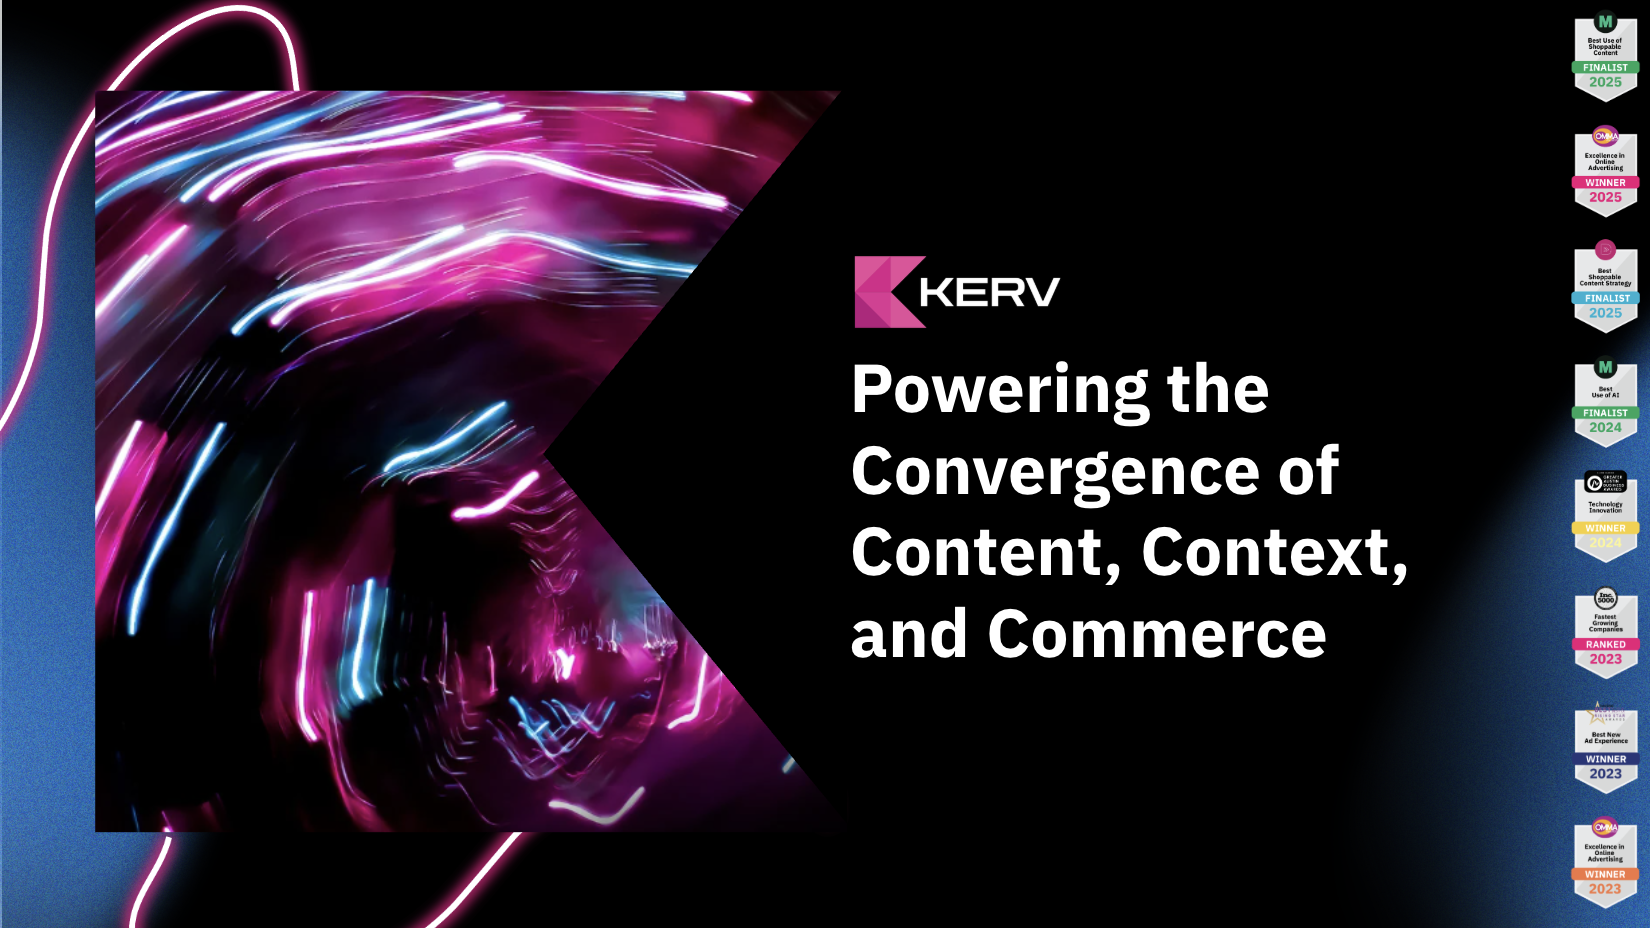
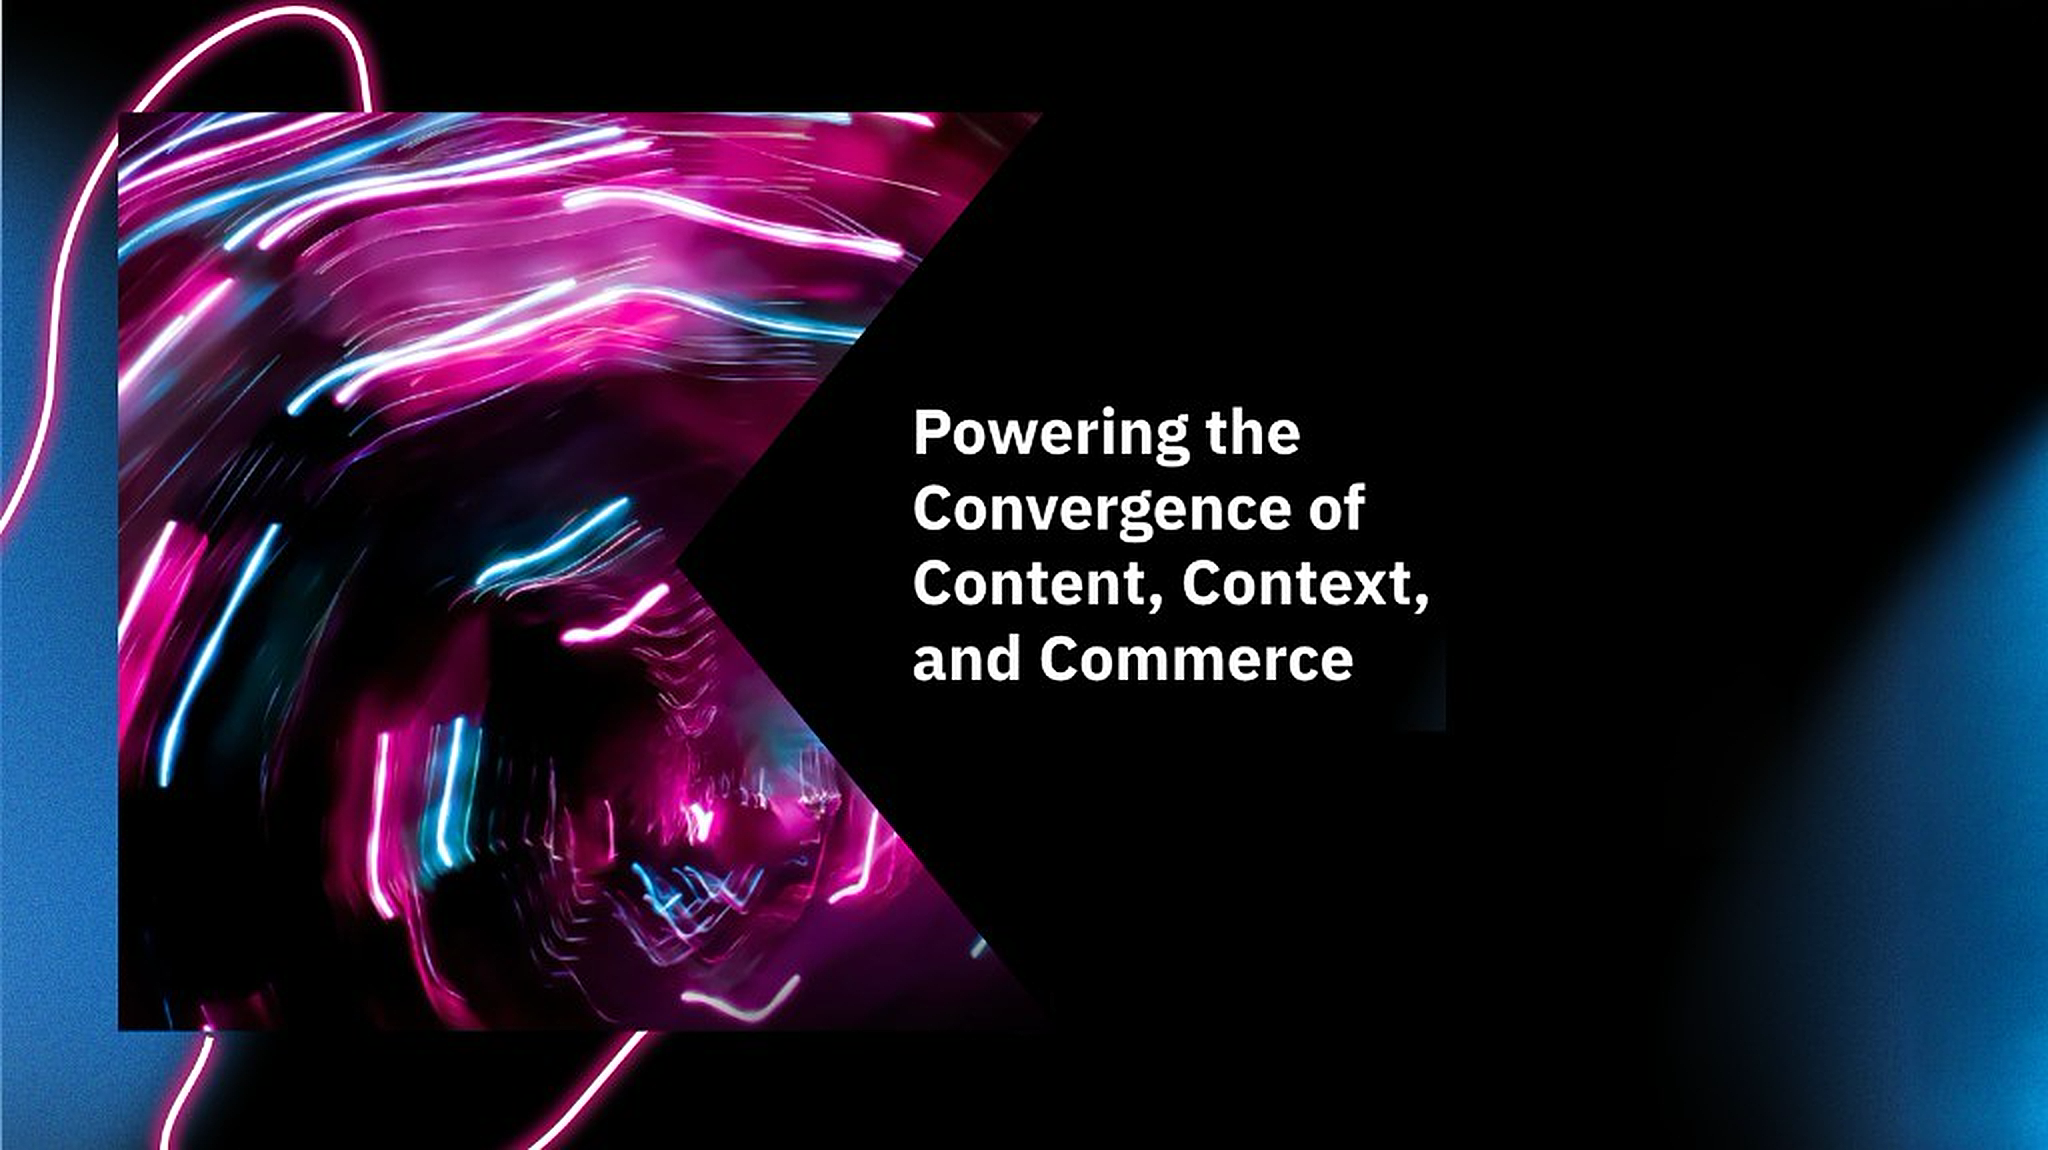
Swap in cleaner KERV login hero and refine crop position.
Replaces the awards-column hero with a simpler KERV brand image that
lets more of the neon background bleed through, and bumps the
object-position offset from +150px to +250px so the K/headline lock-up
sits further toward the center of the visible pane. Source PNG was
upscaled 2x with a Lanczos resample + unsharp mask to crisp up edges
at the display size; the pre-processed original lives in a gitignored
`.backup.png` for reference.

Made-with: Cursor

diff --git a/src/demo/components/LoginView.tsx b/src/demo/components/LoginView.tsx
@@ -88,7 +88,7 @@ export function LoginView({
           width: '100%',
           height: '100%',
           objectFit: 'cover',
-          objectPosition: 'calc(100% + 150px) center',
+          objectPosition: 'calc(100% + 250px) center',
           display: 'block',
         }}
       />
